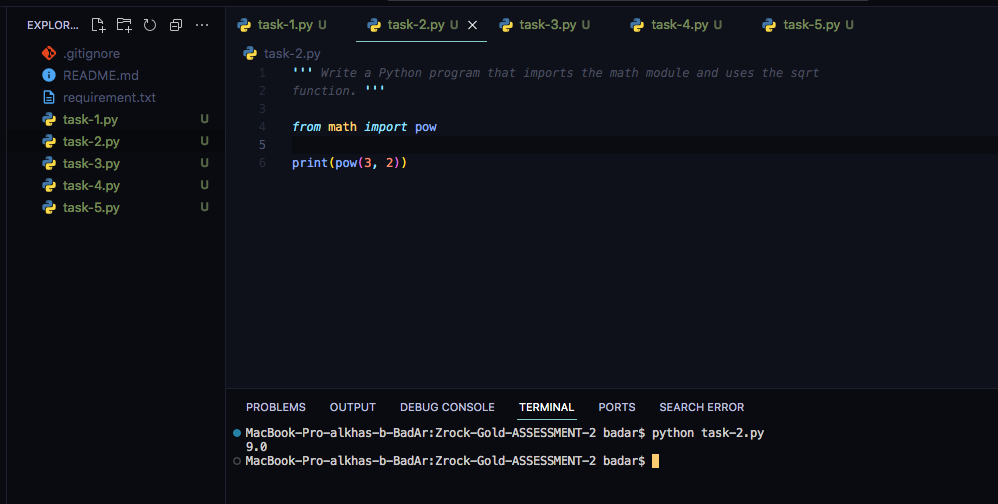
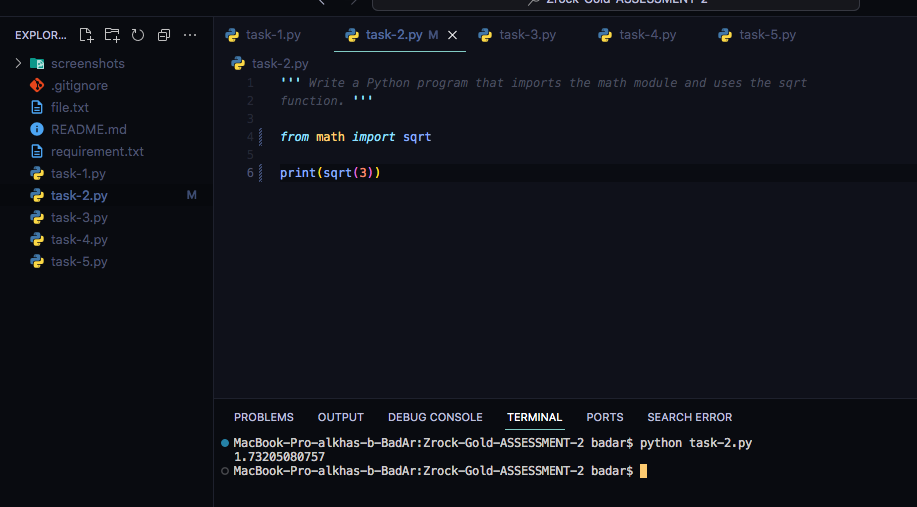
update task-2

diff --git a/task-2.py b/task-2.py
@@ -1,6 +1,6 @@
 ''' Write a Python program that imports the math module and uses the sqrt
 function. '''
 
-from math import pow
+from math import sqrt
 
-print(pow(3, 2))
+print(sqrt(3))
